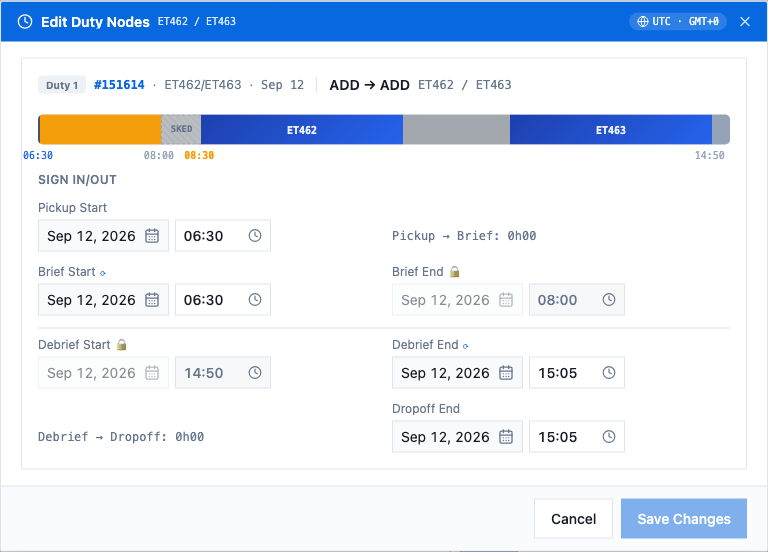
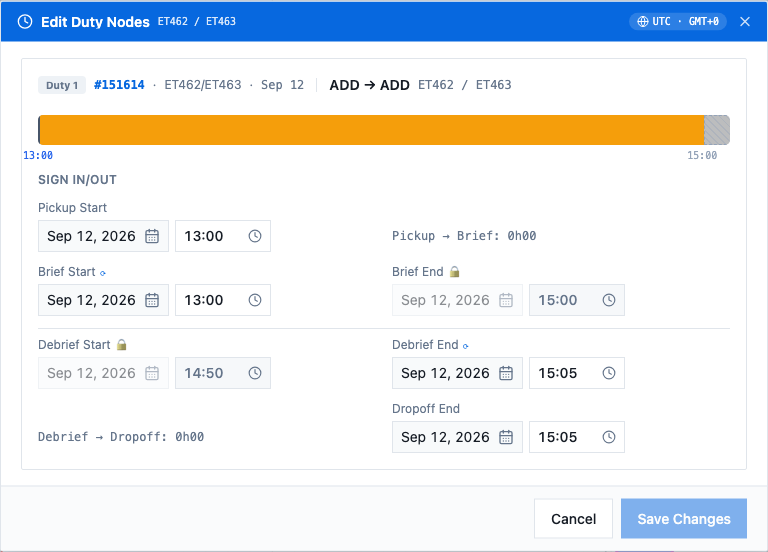
fix(live-server): anchor pickup/brief to STD, not delayed ATD, on flight delay
Flight-delay propagation re-anchored pickup/brief (leave-home/report) to the
actual departure (ATD) instead of the scheduled departure (STD), so the brief
bar "moved with" a delay. Per the duty-event sequence (leave home → report →
start flight) the first two events stay on the scheduled plan; only departure
slips, with the STD→ATD gap shown as the hatched ghost. Anchor pickup/brief/
brief_end and the rest-calc check-in to dutySchStrDtUtc; debrief/dropoff/
check-out stay ATA-anchored.

Regression: flight-delay-pairing-roster-propagation Scenario 2 now delays the
outbound (first) leg and asserts briefEnd===STD, briefStart/pickup unchanged
(briefEndUtc exposed via gantt-test-hook). duty-node-dialog-atd-sync keeps its
STD-anchored brief + ghost assertions. Both green on cr.rois.one.

diff --git a/e2e/tests/gantt/flight-delay-pairing-roster-propagation.spec.ts b/e2e/tests/gantt/flight-delay-pairing-roster-propagation.spec.ts
@@ -55,6 +55,8 @@ interface SegObj {
   actStrDtUtc: string | null
   actEndDtUtc: string | null
   pickupStartUtc: string | null
+  briefStartUtc: string | null
+  briefEndUtc: string | null
   dropoffEndUtc: string | null
   dutyActRestMin: number | null
   fltId: number | null
@@ -508,6 +510,53 @@ test.describe('Flight-detail edit propagates to Pairing/Roster panes + KPI', () 
     // with the delay, proving the same recompute pipeline (refreshLiveLegalityAndManday) fires.
     const kpiBefore = (await rosterKpis(page)).find((k) => k.crewId === CREW_ID)
     expect(kpiBefore, `crew ${CREW_ID} KPI row visible before delay`).toBeTruthy()
+
+    // ── Brief-anchoring regression (§Flight-Change-Ripple-Required) ─────────────────────────────
+    // Duty-event sequence is leave-home (pickup) → report (brief) → start flight. When a flight is
+    // delayed, the crew still leaves home and reports on the SCHEDULED plan — pickup/brief must
+    // stay anchored to STD, never drag onto the delayed ATD. This is the exact bug Ryan reported
+    // ("brief moved with ATD, should anchor with STD"): the previous propagation code re-anchored
+    // brief/pickup to dutyActStrDtUtc. Delay the OUTBOUND leg (the duty's FIRST segment — the
+    // touchedIsFirst path that recomputes the brief window) and prove the window holds at STD.
+    const outStd = outBefore!.schStrDtUtc
+    expect(outBefore!.briefEndUtc, 'baseline: on-time brief ends exactly at STD').toBe(outStd)
+    const outBriefStartBefore = outBefore!.briefStartUtc
+    const outPickupStartBefore = outBefore!.pickupStartUtc
+
+    const outDialog = await openFlightDetailById(page, dashboard, OUT_FLT_ID)
+    const outOriginal = await readOriginalAtdAta(outDialog)
+    // A real, well-past-threshold departure delay (+30 min ATD/ATA) on the first leg.
+    const outDelayedAtd = shiftTime(outOriginal.atd, 30)
+    const outDelayedAta = shiftTime(outOriginal.ata, 30)
+    await editActualTimes(page, outDialog, { atd: outDelayedAtd, ata: outDelayedAta })
+    await expect(outDialog.getByTestId('flight-detail-atd')).toHaveText(outDelayedAtd, { timeout: 10_000 })
+    await outDialog.getByTestId('flight-detail-close').click()
+    await expect(outDialog).toBeHidden({ timeout: 5_000 })
+
+    const outFlightDelayed = (await flightsNow(page)).find((f) => f.id === OUT_FLT_ID)
+    // Wait for the delay to actually land on the outbound segment's ghost bar (actStrDtUtc), so the
+    // brief-anchoring assertions below run against the post-cascade state, not a pre-cascade read.
+    await expect.poll(
+      async () => (await segsNow(page)).find((s) => s.segId === built.outSegId)?.actStrDtUtc,
+      { message: 'outbound segment actStrDtUtc picks up the departure delay', timeout: 20_000 },
+    ).toBe(outFlightDelayed!.actDepDtUtc)
+    const outDelayedSeg = (await segsNow(page)).find((s) => s.segId === built.outSegId)
+    // The regression: brief/pickup must NOT have followed the delayed ATD.
+    expect(outDelayedSeg!.briefEndUtc, 'brief END stays anchored to STD after the departure delay (NOT the delayed ATD)').toBe(outStd)
+    expect(outDelayedSeg!.briefEndUtc, 'brief END must not equal the delayed ATD').not.toBe(outDelayedSeg!.actStrDtUtc)
+    expect(outDelayedSeg!.briefStartUtc, 'report (brief start) stays fixed on the scheduled plan').toBe(outBriefStartBefore)
+    expect(outDelayedSeg!.pickupStartUtc, 'leave-home (pickup start) stays fixed on the scheduled plan').toBe(outPickupStartBefore)
+
+    // Revert the outbound leg to on-time before exercising the return-leg cascade below.
+    const outDialog2 = await openFlightDetailById(page, dashboard, OUT_FLT_ID)
+    await editActualTimes(page, outDialog2, { atd: outOriginal.atd, ata: outOriginal.ata })
+    await expect(outDialog2.getByTestId('flight-detail-atd')).toHaveText(outOriginal.atd, { timeout: 10_000 })
+    await outDialog2.getByTestId('flight-detail-close').click()
+    await expect(outDialog2).toBeHidden({ timeout: 5_000 })
+    await expect.poll(
+      async () => (await segsNow(page)).find((s) => s.segId === built.outSegId)?.actStrDtUtc,
+      { message: 'outbound segment reverts to on-time before the return-leg cascade', timeout: 20_000 },
+    ).toBe(outBefore!.actStrDtUtc)
 
     // Delay the RETURN leg — the last segment of the single duty, so the debrief/dropoff-window
     // assertions below stay meaningful (last-segment recompute).

diff --git a/e2e/tests/gantt/duty-node-dialog-atd-sync.spec.ts b/e2e/tests/gantt/duty-node-dialog-atd-sync.spec.ts
@@ -104,6 +104,10 @@ const applyFlightFilter = (page: Page, filter: { depArps?: string[]; fltNums?: s
 const openLivePairingContextMenu = (page: Page, pairingId: number): Promise<void> =>
   page.evaluate((id) => (window.__ganttTest as unknown as { openLivePairingContextMenu: (n: number) => void }).openLivePairingContextMenu(id), pairingId)
 
+/** Is the Live real-time WebSocket actually open in the browser? */
+const wsConnected = (page: Page): Promise<boolean> =>
+  page.evaluate(() => (window.__ganttTest as unknown as { wsConnected: () => boolean }).wsConnected())
+
 /** Open Flight Detail for a known flight via a real double-click on its Flight-pane puck. */
 const openFlightDetailById = async (page: Page, dashboard: GanttDashboardPage, fltId: number): Promise<Locator> => {
   let probe: FocusResult | null = null
@@ -223,6 +227,19 @@ test.describe('Edit Duty Nodes — flight puck + pairing puck stay in sync per f
     await expect.poll(() => leg1Flight(page).then((f) => f?.id ?? null), {
       message: `${LEG1_FLT_NUM} (${LEG1_FLT_ID}) loaded in Flight pane`, timeout: 20_000,
     }).toBe(LEG1_FLT_ID)
+
+    // ── Real-time channel guard ───────────────────────────────────────────
+    // Every pane-sync assertion below depends on the Live WebSocket pushing the
+    // delay to already-open panes. Assert that channel is actually open *before*
+    // relying on it, so a ws-403 / upgrade regression (as happened over the
+    // cr.rois.one tunnel) fails here with a clear message — not as an opaque 20s
+    // poll timeout, and not masked by the client-side fallback poller, which
+    // would otherwise let the panes catch up on HTTP and hide the regression.
+    await expect.poll(() => wsConnected(page), {
+      message: 'Live WebSocket is connected (real-time pane push channel). '
+        + 'If this fails over a proxy/tunnel, the ws upgrade is being rejected (ws-403).',
+      timeout: 15_000,
+    }).toBe(true)
 
     // ── Baseline (on-time) ────────────────────────────────────────────────
     const flightBase = await leg1Flight(page)

diff --git a/gantt/src/utils/gantt-test-hook.ts b/gantt/src/utils/gantt-test-hook.ts
@@ -60,6 +60,7 @@ import { findPairingsByFlight } from '@/utils/bring-matches-to-top'
 import { markPhase, resetPhaseMarks, allPhaseMarks, phasesRelative } from '@/utils/gantt-perf-marks'
 import { isCrossDayLocal, useTimezoneStore } from '@/stores/timezone-store'
 import { useUiStore } from '@/stores/ui-store'
+import { wsClient } from '@/services/ws'
 import { useAirportTzStore } from '@/stores/airport-tz-store'
 import { useFlightCompositionStore } from '@/stores/flight-composition-store'
 import { formatFlightStatusLine } from '@/utils/format-flight-status-line'
@@ -114,6 +115,12 @@ export interface GanttTestApi {
   rowHeights: () => number[]
   /** 所有可见数据面板都已把对象呈现给用户（不在加载中 + 计数>0 + 已绘制） */
   ready: () => boolean
+  /**
+   * Live WebSocket is open. Lets e2e assert real-time push connectivity so a
+   * ws-403 / upgrade regression fails with a clear message instead of an opaque
+   * 20s poll timeout (the pane-sync propagation channel depends on this).
+   */
+  wsConnected: () => boolean
   /** Canvas 实际绘制回执（按 paneId） */
   render: () => PaneRenderStat[]
   /** Loaded roster_flight ids that have a visible crew memo (each draws a note icon). */
@@ -1021,6 +1028,7 @@ const pairingSegments = (): Array<Record<string, unknown>> =>
       schStrDtUtc: s.schStrDtUtc, schEndDtUtc: s.schEndDtUtc,
       actStrDtUtc: s.actStrDtUtc, actEndDtUtc: s.actEndDtUtc,
       briefStartUtc: (s as unknown as { briefStartUtc?: string | null }).briefStartUtc ?? null,
+      briefEndUtc: (s as unknown as { briefEndUtc?: string | null }).briefEndUtc ?? null,
       // Render anchors: the pairing canvas draws the layover puck from the previous duty's
       // dropoffEndUtc → next duty's pickupStartUtc, and the back-to-base REST puck from the
       // last duty's dropoffEndUtc for dutySchRestMin minutes. Expose them so tests can prove
@@ -2321,6 +2329,7 @@ export const installGanttTestHook = (): void => {
     grid: () => useLayoutStore.getState().grid.map((row) => [...row]),
     rowHeights: () => [...useLayoutStore.getState().rowHeights],
     ready,
+    wsConnected: () => wsClient.isConnected(),
     render: renderList,
     memoBadges,
     memoCount,

diff --git a/live-server/src/services/flight/flight-delay-propagation-service.ts b/live-server/src/services/flight/flight-delay-propagation-service.ts
@@ -166,12 +166,17 @@ export const propagateFlightChange = async (
       const touchedIsLast = touchedSegments.some((s) => s.pairingId === pairingId && s.dutySeq === dutySeq && s.id === lastSeg.id)
 
       if (touchedIsFirst) {
-        const briefStart = addMinutes(dutyActStrDtUtc, -CHECKIN_MIN)
+        // Duty-event sequence: leave home (pickup) → report (brief) → start flight.
+        // Path A: pickup/brief anchor to SCHEDULED departure (STD), NOT actual (ATD).
+        // On a delay the crew still leaves home and reports on the scheduled plan;
+        // only the flight slips. The STD→ATD gap is the crew's wait, rendered as the
+        // hatched ghost extending the brief bar — it must never drag brief onto ATD.
+        const briefStart = addMinutes(dutySchStrDtUtc, -CHECKIN_MIN)
         await tx.update(pairingSegment).set({
           pickupStartUtc: briefStart,
           pickupEndUtc: briefStart,
           briefStartUtc: briefStart,
-          briefEndUtc: dutyActStrDtUtc,
+          briefEndUtc: dutySchStrDtUtc,
           ...audit,
         }).where(eq(pairingSegment.id, firstSeg.id))
       }
@@ -186,7 +191,10 @@ export const propagateFlightChange = async (
         }).where(eq(pairingSegment.id, lastSeg.id))
       }
       if (touchedIsFirst || touchedIsLast) {
-        const checkInStart = addMinutes(dutyActStrDtUtc, -CHECKIN_MIN)
+        // Report (check-in) is STD-anchored like brief above; release (check-out) is
+        // ATA-anchored. On a delay this correctly widens the duty span to include the
+        // crew's wait (STD-report → actual arrival), rather than understating it.
+        const checkInStart = addMinutes(dutySchStrDtUtc, -CHECKIN_MIN)
         const checkOutEnd = addMinutes(dutyActEndDtUtc, CHECKOUT_MIN)
         const restMin = Math.max(REST_FLOOR_MIN, Math.round(minutesBetween(checkInStart, checkOutEnd)))
         for (const s of dutySegs) {
